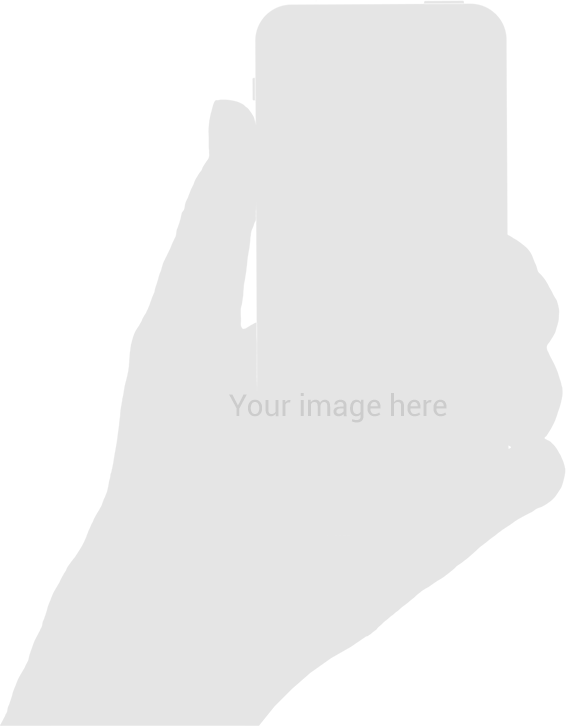
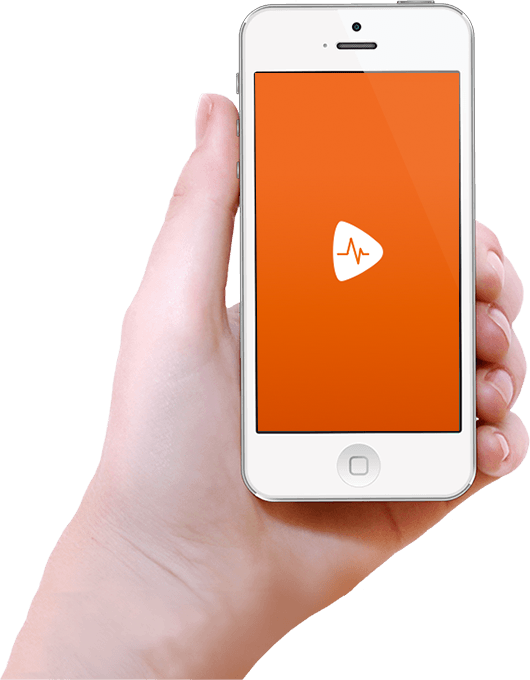
customized

diff --git a/index.html b/index.html
@@ -1,7 +1,7 @@
 <!DOCTYPE html>
 <html>
 <head>
-	<title>Delicious - Mint</title>
+	<title>Jam</title>
 	<!-- Theme stylesheet -->
 	<link href="css/style.css" rel="stylesheet" type="text/css">
 	<link href="css/responsive.css" rel="stylesheet" type="text/css">
@@ -34,7 +34,6 @@
 						<li><a href="#featureContainer">Features</a></li>
 						<li><a href="#reviewContainer">Reviews</a></li>
 						<li><a href="#screensContainer">Screens</a></li>
-						<li><a href="#demoContainer">Demo</a></li>
 						<li><a href="#getappContainer">Get App</a></li>
 						<li><a href="#supportContainer">Support</a></li>
 					</ul>
@@ -54,7 +53,7 @@
 
         			<p class="ls-l sliderText" style="top: 50px; left: 550px;" 
         				data-ls="offsetxin: 0; offsetxout : 0; offsetyin: 50; durationin: 2000;">
-        			<span>Delicious</span> App<br/>Landing Theme</p>
+        			Join the <span>Jam</span><br/>community</p>
 
         			<a href="#aboutContainer" class="buttonBig ls-l" style="top: 300px; left: 550px;" 
         				data-ls="offsetxin: 0; offsetxout: 0; delayin: 300; offsetyin: 100; durationin: 2000;">LEARN MORE</a> 
@@ -264,7 +263,7 @@
 
 
 		<!--REVIEW CONTAINER-->
-		<section id="reviewContainer" class="section-160-160 textureBgSection" style="background-image: url('img/bg-texture1.jpg');">
+		<section id="reviewContainer" class="section-160-160 textureBgSection" style="background-image: url('img/bg-texture1.png');">
 			<h1 class="sectionTitle">Reviews</h1>
 			<div class="titleSeparator"></div>
 			<h3 class="sectionDescription">Read what customers are saying</h3>
@@ -351,32 +350,32 @@
 						<div id="screensWrap">
 
 							<div class="screen-item" data-groups='["socialn", "all"]'>
-								<a href="img/demoimg/screen1big.jpg" data-lightbox="screens1" data-title="Delicious caption"><img src="img/demoimg/screen1.jpg" alt="SCREEN" class="screenImg" /></a>
+								<a href="img/demoimg/1big.jpg" data-lightbox="screens1" data-title="Delicious caption"><img src="img/demoimg/screen1.jpg" alt="SCREEN" class="screenImg" /></a>
 								<span>Sign Up</span>
 							</div>
 
 							<div class="screen-item" data-groups='["media", "all"]'>
-								<a href="img/demoimg/screen2big.jpg" data-lightbox="screens2" data-title="Delicious caption"><img src="img/demoimg/screen2.jpg" alt="SCREEN" class="screenImg" /></a>
-								<span>Weather</span>
+								<a href="img/demoimg/2big.jpg" data-lightbox="screens2" data-title="Delicious caption"><img src="img/demoimg/screen2.jpg" alt="SCREEN" class="screenImg" /></a>
+								<span>Search Jamers</span>
 							</div>
 
 							<div class="screen-item" data-groups='["socialn", "all"]'>
-								<a href="img/demoimg/screen3big.jpg" data-lightbox="screens3" data-title="Delicious caption"><img src="img/demoimg/screen3.jpg" alt="SCREEN" class="screenImg" /></a>
+								<a href="img/demoimg/3big.jpg" data-lightbox="screens3" data-title="Delicious caption"><img src="img/demoimg/screen3.jpg" alt="SCREEN" class="screenImg" /></a>
 								<span>Music Player</span>
 							</div>
 
 							<div class="screen-item" data-groups='["socialn", "all"]'>
-								<a href="img/demoimg/screen4big.jpg" data-lightbox="screens4" data-title="Delicious caption"><img src="img/demoimg/screen4.jpg" alt="SCREEN" class="screenImg" /></a>
+								<a href="img/demoimg/4big.jpg" data-lightbox="screens4" data-title="Delicious caption"><img src="img/demoimg/screen4.jpg" alt="SCREEN" class="screenImg" /></a>
 								<span>Profile</span>
 							</div>
 
 							<div class="screen-item" data-groups='["media", "all"]'>
-								<a href="img/demoimg/screen5big.jpg" data-lightbox="screens5" data-title="Delicious caption"><img src="img/demoimg/screen5.jpg" alt="SCREEN" class="screenImg" /></a>
+								<a href="img/demoimg/5big.jpg" data-lightbox="screens5" data-title="Delicious caption"><img src="img/demoimg/screen5.jpg" alt="SCREEN" class="screenImg" /></a>
 								<span>Menu</span>
 							</div>
 
 							<div class="screen-item" data-groups='["media", "all"]'>
-								<a href="img/demoimg/screen6big.jpg" data-lightbox="screens6" data-title="Delicious caption"><img src="img/demoimg/screen6.jpg" alt="SCREEN" class="screenImg" /></a>
+								<a href="img/demoimg/6big.jpg" data-lightbox="screens6" data-title="Delicious caption"><img src="img/demoimg/screen6.jpg" alt="SCREEN" class="screenImg" /></a>
 								<span>Chat</span>
 							</div>
 
@@ -399,22 +398,8 @@
 		<!--END SCREENS WRAPPER-->
 
 
-		<!--BEGIN DEMO WRAPPER-->
-		<section id="demoContainer" class="section-80-80 grayBgSection">
-			<h1 class="sectionTitle">Demo</h1>
-			<div class="titleSeparator"></div>
-			<h3 class="sectionDescription">Take a closer look in more detail</h3>
-			<div class="separator80"></div>
-			<div class="row">
-				<div class="embed-container"><iframe src='http://www.youtube.com/embed/R1oWXhocfS8' allowfullscreen></iframe></div>
-			</div>
-			<img class="triangleBottom" src="img/tri-gray-bot.png" alt="" />
-		</section>
-		<!--END DEMO WRAPPER-->
-
-
 		<!--BEGIN GET APP CONTAINER-->
-		<section id="getappContainer" class="section-160-160 textureBgSection" style="background-image: url('img/bg-texture2.jpg');">
+		<section id="getappContainer" class="section-160-160 textureBgSection" style="background-image: url('img/bg-texture2.png');">
 			<h1 class="sectionTitle">Get App</h1>
 			<div class="titleSeparator"></div>
 			<h3 class="sectionDescription">Choose your native platform and get started!</h3>
@@ -488,7 +473,7 @@
 			<a href="#"><i class="fa fa-google-plus"></i></a>
 
 			<div class="separator80"></div>
-			<p>Copyright &copy; 2014<br/>Theme Design by <a href="#">Digital Science</a></p>
+			<p>Jam · Copyright &copy; 2016<br/>Customized by <a href="http://pcuervo.com/">PequeñoCuervo</a></p>
 		</section>
 		<!--END FOOTER WRAPPER-->
 

diff --git a/css/style.css b/css/style.css
@@ -20,8 +20,8 @@
 
 /**
  * MAIN COLORS
- * green           = #66cc99
- * alternate green = #5cadad
+ * jam color           = #FF5C00
+ * alternate jam color = #DA5526
  */
 
 /**
@@ -83,12 +83,12 @@ a {
     vertical-align:baseline;
     background:transparent;
     text-decoration: none;
-    color: #66cc99;
+    color: #FF5C00;
     transition: color 0.3s;
     -webkit-transition: color 0.3s;
 }
 a:hover {
-    color: #5cadad;
+    color: #DA5526;
 }
 ins {
     background-color:#ff9;
@@ -151,7 +151,7 @@ p {
 #topContainer {
     width: 100%;
     position: fixed;
-    background: url('../img/background.jpg') no-repeat center;
+    background: url('../img/background.png') no-repeat center;
     background-size: cover;
     top: 0;
     z-index: 1;
@@ -206,12 +206,12 @@ p {
 }
 
 .menuActive a {
-    color: #5cadad !important;
+    color: #DA5526 !important;
     background: #fff !important;
 }
 
 .mainMenu li a:hover {
-    color: #5cadad;
+    color: #DA5526;
     background: #fff;
 }
 
@@ -233,7 +233,7 @@ p {
 }
 
 #followMenu .mainMenu li a:hover, #followMenu .mainMenu .menuActive a{
-    background: #66cc99 !important;
+    background: #FF5C00 !important;
     color: #fff !important;
 }
 
@@ -282,7 +282,7 @@ p {
     z-index: 20;
     padding: 10px;
     font-size: 30px;
-    background: #66cc99;
+    background: #FF5C00;
     display: none;
 }
 
@@ -360,7 +360,7 @@ p {
     width: 40px;
     height: 4px;
     margin: 20px auto;
-    background: #66cc99;
+    background: #FF5C00;
 }
 
 .grayBgSection, .whiteBgSection {
@@ -435,8 +435,8 @@ p {
 .iconColWrap i.fa {
     min-width: 30px;
     font-size: 32px;
-    border: 2px solid #66cc99;
-    color: #66cc99;
+    border: 2px solid #FF5C00;
+    color: #FF5C00;
     padding: 40px;
     background: transparent;
     -webkit-border-radius: 350px;
@@ -452,7 +452,7 @@ p {
 
 .iconColWrap:hover i.fa {
     color: #fff;
-    background: #66cc99;
+    background: #FF5C00;
 }
 
 .iconColWrap h2 {
@@ -465,7 +465,7 @@ p {
 }
 
 .iconColWrap:hover h2 {
-    color: #66cc99;
+    color: #FF5C00;
 }
 
 
@@ -499,8 +499,8 @@ p {
 
 .iconRightColWrap i.fa {
     font-size: 32px;
-    border: 2px solid #66cc99;
-    color: #66cc99;
+    border: 2px solid #FF5C00;
+    color: #FF5C00;
     padding: 25px;
     background: transparent;
     -webkit-border-radius: 350px;
@@ -516,7 +516,7 @@ p {
 
 .iconRightColWrap:hover i.fa {
     color: #fff;
-    background: #66cc99;
+    background: #FF5C00;
 }
 
 .iconRightColWrap h2 {
@@ -529,7 +529,7 @@ p {
 }
 
 .iconRightColWrap:hover h2 {
-    color: #66cc99;
+    color: #FF5C00;
 }
 
 
@@ -563,8 +563,8 @@ p {
 
 .iconLeftColWrap i.fa {
     font-size: 32px;
-    border: 2px solid #66cc99;
-    color: #66cc99;
+    border: 2px solid #FF5C00;
+    color: #FF5C00;
     padding: 25px;
     background: transparent;
     -webkit-border-radius: 350px;
@@ -580,7 +580,7 @@ p {
 
 .iconLeftColWrap:hover i.fa {
     color: #fff;
-    background: #66cc99;
+    background: #FF5C00;
 }
 
 .iconLeftColWrap h2 {
@@ -593,7 +593,7 @@ p {
 }
 
 .iconLeftColWrap:hover h2 {
-    color: #66cc99;
+    color: #FF5C00;
 }
 
 .iconLeftColWrap p {
@@ -627,7 +627,7 @@ p {
 
 .buttonBig:hover, .dlButton:hover {
     background: #fff;
-    color: #5cadad;
+    color: #DA5526;
 }
 
 .dlButton {
@@ -731,7 +731,7 @@ p {
 }
 
 .revText {
-    color: #66cc99;
+    color: #FF5C00;
     font-weight: 300;
     font-size: 30px;
     line-height: 38px;
@@ -793,7 +793,7 @@ p {
 }
 
 .screenImg:hover {
-    border-color: #66CC99;
+    border-color: #FF5C00;
 }
 
 #screensViewportWrap {
@@ -858,8 +858,8 @@ button, input[type="submit"] {
 
 button.active, button:hover, input[type="submit"]:hover {
     color: #fff;
-    background: #66CC99;
-    border-color: #66CC99;
+    background: #FF5C00;
+    border-color: #FF5C00;
 }
 
 .screensArrows {
@@ -892,7 +892,7 @@ button.active, button:hover, input[type="submit"]:hover {
 .screensArrowsActive:hover {
     color: #fff;
     border-color: #fff;
-    background: #66CC99;
+    background: #FF5C00;
 }
 
 #screensLeftAr i {
@@ -980,21 +980,21 @@ textarea {
 
 input:focus, textarea:focus {
     outline: 0 transparent;
-    border-color: #66CC99;
+    border-color: #FF5C00;
 }
 
 input[type="submit"]  {
     font-size: 18px;
     padding: 15px 50px;
     margin: 0;
-    color: #66CC99;
-    border-color: #66CC99;
+    color: #FF5C00;
+    border-color: #FF5C00;
 }
 
 .del-fa {
     font-size: 26px;
-    border: 2px solid #66CC99;
-    color: #66CC99;
+    border: 2px solid #FF5C00;
+    color: #FF5C00;
     padding: 12px;
     min-width: 26px;
     text-align: center;
@@ -1030,7 +1030,7 @@ input[type="submit"]  {
  */
 .footer {
     width: 100%;
-    background: url('../img/background.jpg') no-repeat center;
+    background: url('../img/background.png') no-repeat center;
     background-size: cover;    
     text-align: center;
     font-size: 14px;
@@ -1062,7 +1062,7 @@ input[type="submit"]  {
 }
 
 .footer i.fa:hover {
-    color: #66cc99;
+    color: #FF5C00;
     background: #fff;
 }
 
